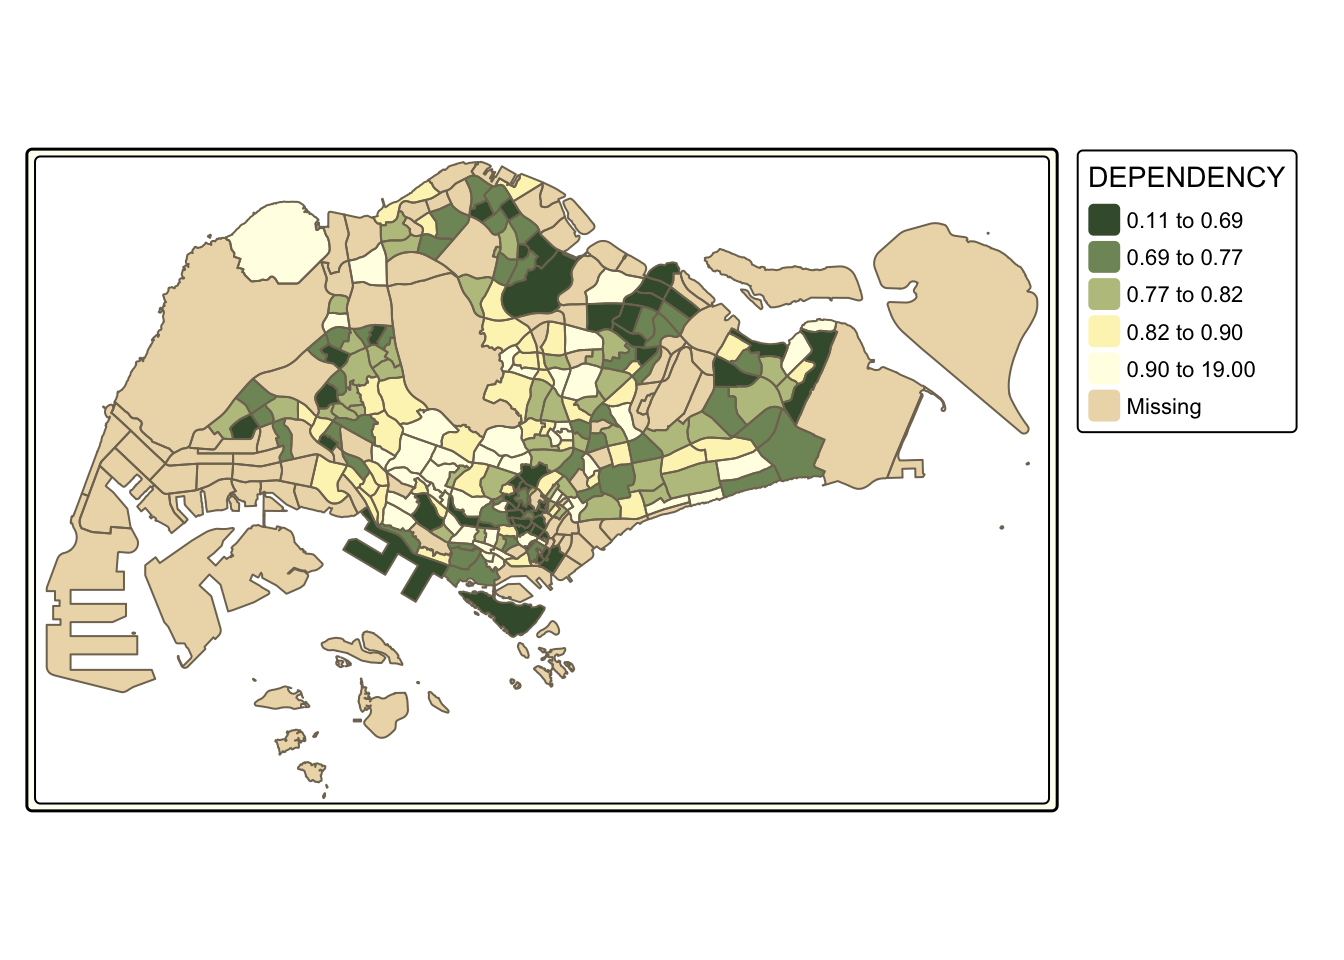
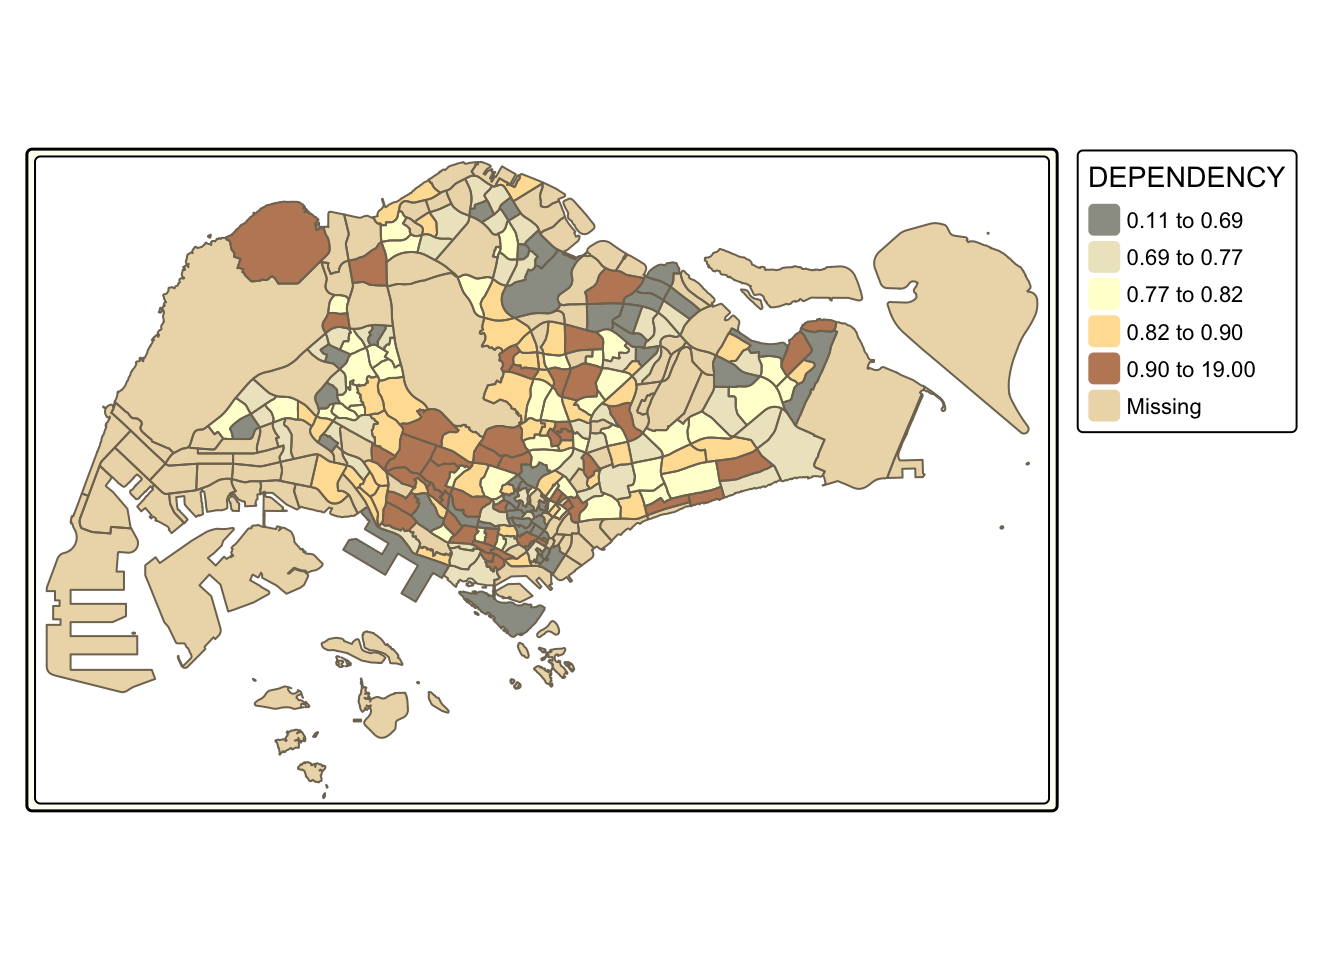
updates to hands-on ex02

Changed region(s): [[0.1562, 0.1875, 0.625, 0.6562], [0.8125, 0.1875, 0.8438, 0.4062]]

diff --git a/_site/Hands-on_Ex/hands_on02.html b/_site/Hands-on_Ex/hands_on02.html
@@ -854,7 +854,7 @@ Reflection
 <div class="sourceCode cell-code" id="cb37"><pre class="sourceCode r code-with-copy"><code class="sourceCode r"><span id="cb37-1"><a href="#cb37-1" aria-hidden="true" tabindex="-1"></a><span class="fu">tm_shape</span>(mpsz_pop2020)<span class="sc">+</span></span>
 <span id="cb37-2"><a href="#cb37-2" aria-hidden="true" tabindex="-1"></a>  <span class="fu">tm_fill</span>(<span class="st">"DEPENDENCY"</span>, </span>
 <span id="cb37-3"><a href="#cb37-3" aria-hidden="true" tabindex="-1"></a>          <span class="at">style =</span> <span class="st">"quantile"</span>, </span>
-<span id="cb37-4"><a href="#cb37-4" aria-hidden="true" tabindex="-1"></a>          <span class="at">palette =</span> <span class="st">"-Greens"</span>) <span class="sc">+</span></span>
+<span id="cb37-4"><a href="#cb37-4" aria-hidden="true" tabindex="-1"></a>          <span class="at">palette =</span> <span class="st">"Sunset"</span>) <span class="sc">+</span></span>
 <span id="cb37-5"><a href="#cb37-5" aria-hidden="true" tabindex="-1"></a>  <span class="fu">tm_borders</span>(<span class="at">alpha =</span> <span class="fl">0.5</span>) <span class="sc">+</span></span>
 <span id="cb37-6"><a href="#cb37-6" aria-hidden="true" tabindex="-1"></a>  <span class="fu">tmap_style</span>(<span class="st">"classic"</span>)</span></code><button title="Copy to Clipboard" class="code-copy-button"><i class="bi"></i></button></pre></div>
 <div class="cell-output-display">
@@ -870,7 +870,7 @@ Reflection
 <div class="sourceCode cell-code" id="cb38"><pre class="sourceCode r code-with-copy"><code class="sourceCode r"><span id="cb38-1"><a href="#cb38-1" aria-hidden="true" tabindex="-1"></a><span class="fu">tm_shape</span>(mpsz_pop2020)<span class="sc">+</span></span>
 <span id="cb38-2"><a href="#cb38-2" aria-hidden="true" tabindex="-1"></a>  <span class="fu">tm_fill</span>(<span class="st">"DEPENDENCY"</span>, </span>
 <span id="cb38-3"><a href="#cb38-3" aria-hidden="true" tabindex="-1"></a>          <span class="at">style =</span> <span class="st">"quantile"</span>, </span>
-<span id="cb38-4"><a href="#cb38-4" aria-hidden="true" tabindex="-1"></a>          <span class="at">palette =</span> <span class="st">"Blues"</span>,</span>
+<span id="cb38-4"><a href="#cb38-4" aria-hidden="true" tabindex="-1"></a>          <span class="at">palette =</span> <span class="st">"Sunset"</span>,</span>
 <span id="cb38-5"><a href="#cb38-5" aria-hidden="true" tabindex="-1"></a>          <span class="at">title =</span> <span class="st">"No. of persons"</span>) <span class="sc">+</span></span>
 <span id="cb38-6"><a href="#cb38-6" aria-hidden="true" tabindex="-1"></a>  <span class="fu">tm_layout</span>(<span class="at">main.title =</span> <span class="st">"Distribution of Dependency Ratio </span><span class="sc">\n</span><span class="st">by planning subzone"</span>,</span>
 <span id="cb38-7"><a href="#cb38-7" aria-hidden="true" tabindex="-1"></a>            <span class="at">main.title.position =</span> <span class="st">"center"</span>,</span>
